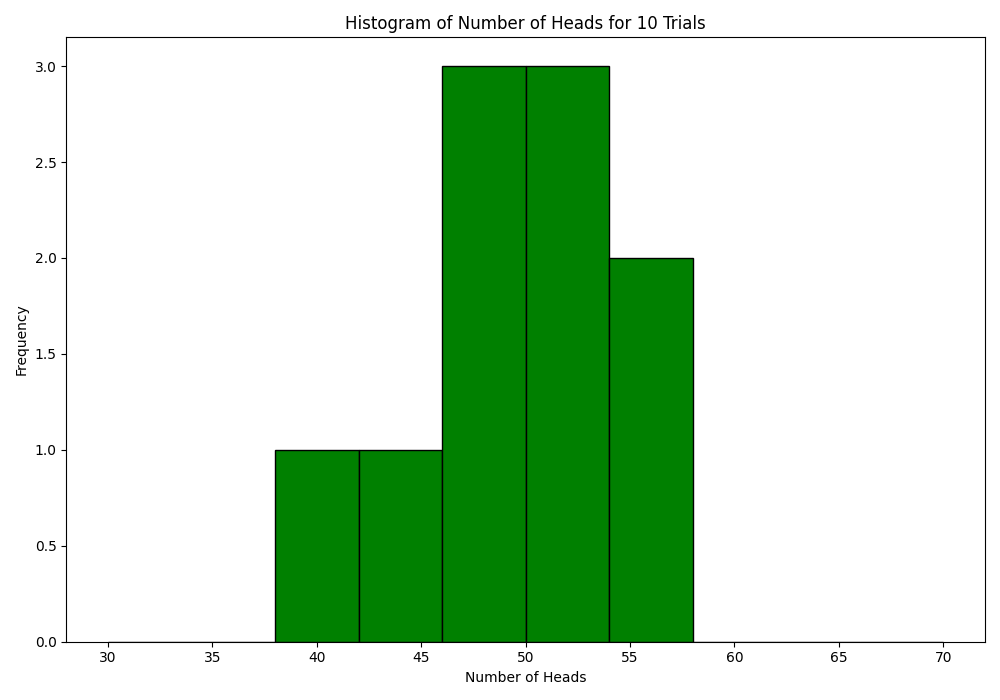
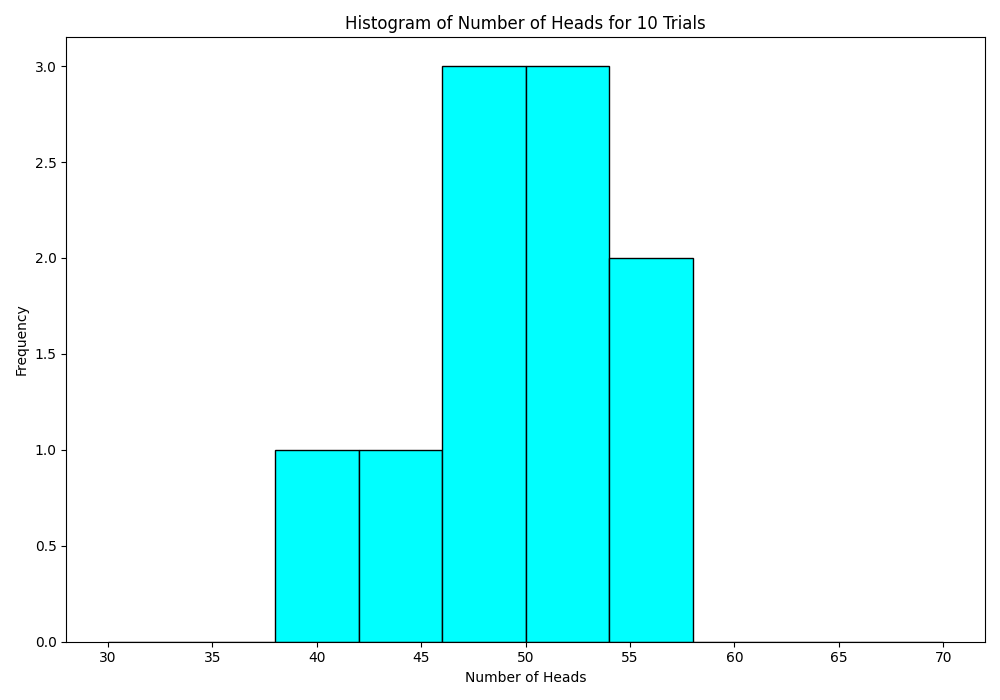
Added different bins for different Trials also added range of histogram

Changed region(s): [[0.279, 0.09, 0.713, 0.93]]

diff --git a/Ambuj/part1A.py b/Ambuj/part1A.py
@@ -38,7 +38,7 @@ def plot_hist(trial):
     fig, axs = plt.subplots(figsize=(10, 7), tight_layout=True)
 
     ## Write your code here
-    plt.hist(trial, bins=40 if len(trial) > 1000 else 20 if len(trial) > 100 else 10, range=(30, 70), color='green',
+    plt.hist(trial, bins=40 if len(trial) > 1000 else 20 if len(trial) > 100 else 10, range=(30, 70), color='cyan',
              edgecolor='black')
     axs.set_title(f'Histogram of Number of Heads for {num_trials} Trials')
     axs.set_xlabel('Number of Heads')
